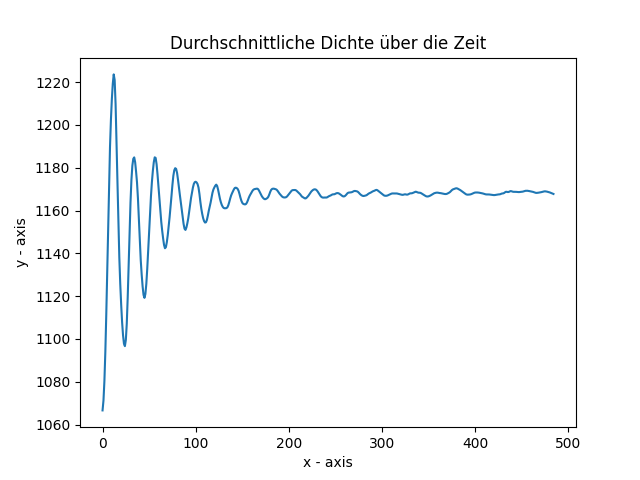
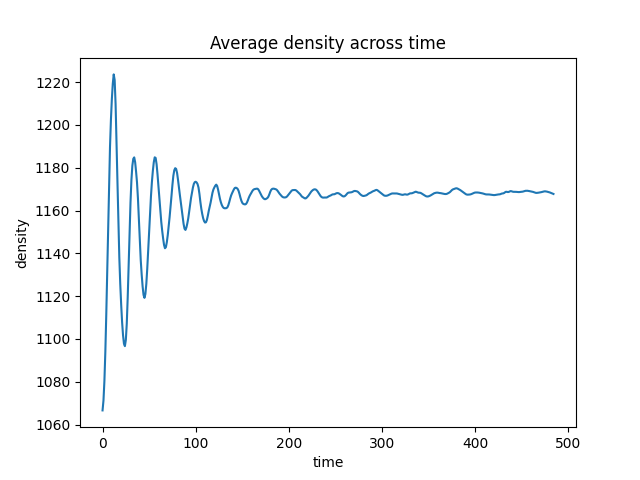
added map of densities of particles

Changed region(s): [[0.25, 0.0625, 0.75, 0.125], [0.0, 0.4375, 0.0625, 0.5625], [0.4688, 0.9375, 0.5625, 0.9688]]

diff --git a/src/Bachelorprojekt_test.cpp b/src/Bachelorprojekt_test.cpp
@@ -217,7 +217,7 @@ TEST(KenelFunction, compactTest) {
   auto testParticle = testSets::basicSet[24];
   for (const auto &neighbour: testSets::basicSet) {
     if (neighbour.getPos().distance(testParticle.getPos()) >= constants::kernelSupport) {
-      EXPECT_NEAR(testParticle.getKernelValue(neighbour), 0, 0.02);
+      EXPECT_NEAR(testParticle.getKernelValue(neighbour), 0, 0.0002);
     } else {
       EXPECT_GT(testParticle.getKernelValue(neighbour), 0);
     }
@@ -225,13 +225,14 @@ TEST(KenelFunction, compactTest) {
 }
 
 TEST(KernelFunction, sum) {
-  auto testParticle = testSets::basicSet[24];
-  double sum = 0;
-  for (const auto &neighbour: testSets::basicSet) {
-    sum += testParticle.getKernelValue(neighbour);
-  }
+  for (const auto &particle: testSets::basicSet) {
+    double sum = 0;
+    for (const auto &neighbour: testSets::basicSet) {
+      sum += particle.getKernelValue(neighbour);
+    }
 
-  EXPECT_NEAR(sum, 1 / (constants::volume), 0.001);
+    EXPECT_NEAR(sum, 1 / (constants::volume), 0.2);
+  }
 }
 
 TEST(KernelFunction, reverse) {
@@ -247,40 +248,43 @@ TEST(KernelFunction, manualCalculation) {
 }
 
 TEST(KernelDerivation, reverse) {
-  auto testParticle = testSets::basicSet[24];
-  for (const auto &neighbour: testSets::basicSet) {
-    auto w_i_j = testParticle.getKernelDerivative(neighbour);
-    auto w_j_i = neighbour.getKernelDerivative(testParticle);
-    EXPECT_NEAR(w_i_j.getX(), -w_j_i.getX(), 0.001);
-    EXPECT_NEAR(w_i_j.getY(), -w_j_i.getY(), 0.001);
+  for (const auto &testParticle: testSets::basicSet) {
+    for (const auto &neighbour: testSets::basicSet) {
+      auto w_i_j = testParticle.getKernelDerivative(neighbour);
+      auto w_j_i = neighbour.getKernelDerivative(testParticle);
+      EXPECT_NEAR(w_i_j.getX(), -w_j_i.getX(), 0.001);
+      EXPECT_NEAR(w_i_j.getY(), -w_j_i.getY(), 0.001);
+    }
   }
 }
 
 TEST(KerndelDerivation, sum) {
-  auto testParticle = testSets::basicSet[24];
-  auto sum = Vector();
-  for (const auto &neighbour: testSets::basicSet) {
-    sum += testParticle.getKernelDerivative(neighbour);
+  for (const auto &testParticle: testSets::basicSet) {
+    Vector sum;
+    for (const auto &neighbour: testSets::basicSet) {
+      sum += testParticle.getKernelDerivative(neighbour);
+    }
+    EXPECT_NEAR(sum.getX(), 0, 0.2);
+    EXPECT_NEAR(sum.getY(), 0, 0.2);
   }
-  EXPECT_NEAR(sum.getX(), 0, 0.001);
-  EXPECT_NEAR(sum.getY(), 0, 0.001);
 }
 
 TEST(KernelDerivation, sameParticle) {
-  auto testParticle = testSets::basicSet[24];
-  EXPECT_NEAR(testParticle.getKernelDerivative(testParticle).getX(), 0, 0.001);
-  EXPECT_NEAR(testParticle.getKernelDerivative(testParticle).getY(), 0, 0.001);
+  for (const auto &testParticle: testSets::basicSet) {
+    EXPECT_NEAR(testParticle.getKernelDerivative(testParticle).getX(), 0, 0.001);
+    EXPECT_NEAR(testParticle.getKernelDerivative(testParticle).getY(), 0, 0.001);
+  }
 }
 
 TEST(KernelDerivation, multiplication) {
   auto testParticle = testSets::basicSet[24];
   auto res = Matrix();
-  for (const auto & neighbor : testParticle.getNeighbours(testSets::basicSet)) {
+  for (const auto &neighbor: testParticle.getNeighbours(testSets::basicSet)) {
     auto pos = testParticle.getPos() - neighbor->getPos();
     auto derivative = testParticle.getKernelDerivative(*neighbor);
     res += pos % derivative;
   }
-  auto TestMatrix = (- 1 / constants::volume) * Matrix(1, 0, 0, 1);
+  auto TestMatrix = (-1 / constants::volume) * Matrix(1, 0, 0, 1);
 
   EXPECT_NEAR(res.x_1, TestMatrix.x_1, 0.01);
   EXPECT_NEAR(res.y_1, TestMatrix.y_1, 0.01);

diff --git a/src/ParticleAnalyzer.cpp b/src/ParticleAnalyzer.cpp
@@ -29,8 +29,49 @@ void ParticleAnalyzer::Log(const ParticleVector &particles) {
     numParticles++;
     totalDensity += particle.getDensity();
   });
-  _densityFile << _iteration << "\t" << setprecision(10) << Util::round(totalDensity / numParticles, 8) << std::endl;
+  _densityFile << _iteration << "\t" << setprecision(10) << Util::round(totalDensity / numParticles, 10) << std::endl;
+
+  // Creates a map of all particles in the simulation after 2000 iterations
+
+  if (_iteration == 2000) {
+    StoreMap(particles);
+  }
+
   _iteration++;
+}
+
+void ParticleAnalyzer::StoreMap(const ParticleVector &particles) {
+  std::ofstream mapFile;
+  auto mapFileName = "maps/map_" + Util::CurrentDateTime() + ".txt";
+  std::filesystem::create_directories("maps");
+  std::replace(mapFileName.begin(), mapFileName.end(), ':', '_');
+  mapFile.open(mapFileName);
+  ASSERT(mapFile.is_open(), "Could not open map file");
+
+  auto max = std::max_element(particles.begin(), particles.end(), [] (const Particle &a, const Particle &b) {
+    if (b.getType() != Particle::Type::FLUID) {
+      return false;
+    }
+    return a.getPos().getX() + a.getPos().getY() < b.getPos().getX() + b.getPos().getY();
+  });
+
+  auto min = std::min_element(particles.begin(), particles.end(), [] (const Particle &a, const Particle &b) {
+    if (a.getType() != Particle::Type::FLUID) {
+      return false;
+    }
+    return a.getPos().getX() + a.getPos().getY() < b.getPos().getX() + b.getPos().getY();
+  });
+
+  for (auto y = min->getPos().getY(); y < max->getPos().getY(); y += 0.1) {
+    for (auto x = min->getPos().getX(); x < max->getPos().getX(); x += 0.1) {
+      auto particle = Particle(x, y, 0, Particle::Type::FLUID);
+      particle.updateNeighbors(particles);
+      particle.updateDensity();
+      auto density = particle.getDensity();
+      mapFile << x << "\t" << y << "\t" << density << "\n";
+    }
+  }
+  mapFile.close();
 }
 
 ParticleAnalyzer::~ParticleAnalyzer() {

diff --git a/util/graph/createDensityMap.py b/util/graph/createDensityMap.py
@@ -1,0 +1,32 @@
+
+import argparse
+from PIL import Image
+
+
+def main():
+    parser = argparse.ArgumentParser(
+        description='Create a graph from a tsv file')
+    parser.add_argument('path', help='Path to the tsv file', type=str)
+    args = parser.parse_args()
+    val = []
+    with open(args.path, 'r') as f:
+        for line in f:
+            if line == "\n":
+                break
+            values = line.split('\t')
+            val.append((float(values[0].replace('\n', '')),
+                        float(values[1].replace('\n', '')),
+                        float(values[2].replace('\n', ''))))
+
+    minimum = min(val, key=lambda x: x[2])
+    maximum = max(val, key=lambda x: x[2])
+
+    img = Image.new('RGB', (len(val), len(val)), 'white')
+
+
+
+    img.save('densityMap.png')
+
+
+if __name__ == '__main__':
+    main()

diff --git a/src/Bachelorprojekt.cpp b/src/Bachelorprojekt.cpp
@@ -75,9 +75,7 @@ int main(int argc, char *argv[]) {
     log->Log(std::string("Rendered frame ") + to_string(frame_counter) + " in "
                  + to_string(duration.count() / 1000) + " seconds.");
 
-    if (frame_counter % constants::analyze_every_n_frames == 0) {
-      analyzer.Log(particles);
-    }
+    analyzer.Log(particles);
   }
   CLogger::exit();
   std::cout << "Exiting" << std::endl;

diff --git a/util/graph/createGraph.py b/util/graph/createGraph.py
@@ -19,12 +19,12 @@ def main():
     plt.plot(x, y)
 
     # naming the x axis
-    plt.xlabel('x - axis')
+    plt.xlabel('time')
     # naming the y axis
-    plt.ylabel('y - axis')
+    plt.ylabel('density')
 
     # giving a title to my graph
-    plt.title('Durchschnittliche Dichte über die Zeit')
+    plt.title('Average density across time')
 
     # function to show the plot
     plt.show()

diff --git a/src/Constants.h b/src/Constants.h
@@ -11,7 +11,6 @@ constexpr double volume = particleSize * particleSize;
 constexpr double gravity = 10.0;
 constexpr double stiffness = 1000000.0;
 constexpr double friction = 0.5;
-constexpr long long analyze_every_n_frames = 10;
 
 constexpr int window_size = 1000.0;
 constexpr float particleRenderSize = 1.5;

diff --git a/src/ParticleAnalyzer.h b/src/ParticleAnalyzer.h
@@ -16,6 +16,8 @@ class ParticleAnalyzer {
 
   void Log(const ParticleVector & particles);
  private:
+  static void StoreMap(const ParticleVector &particles);
+
   std::ofstream _densityFile;
   long long _iteration;
 };
